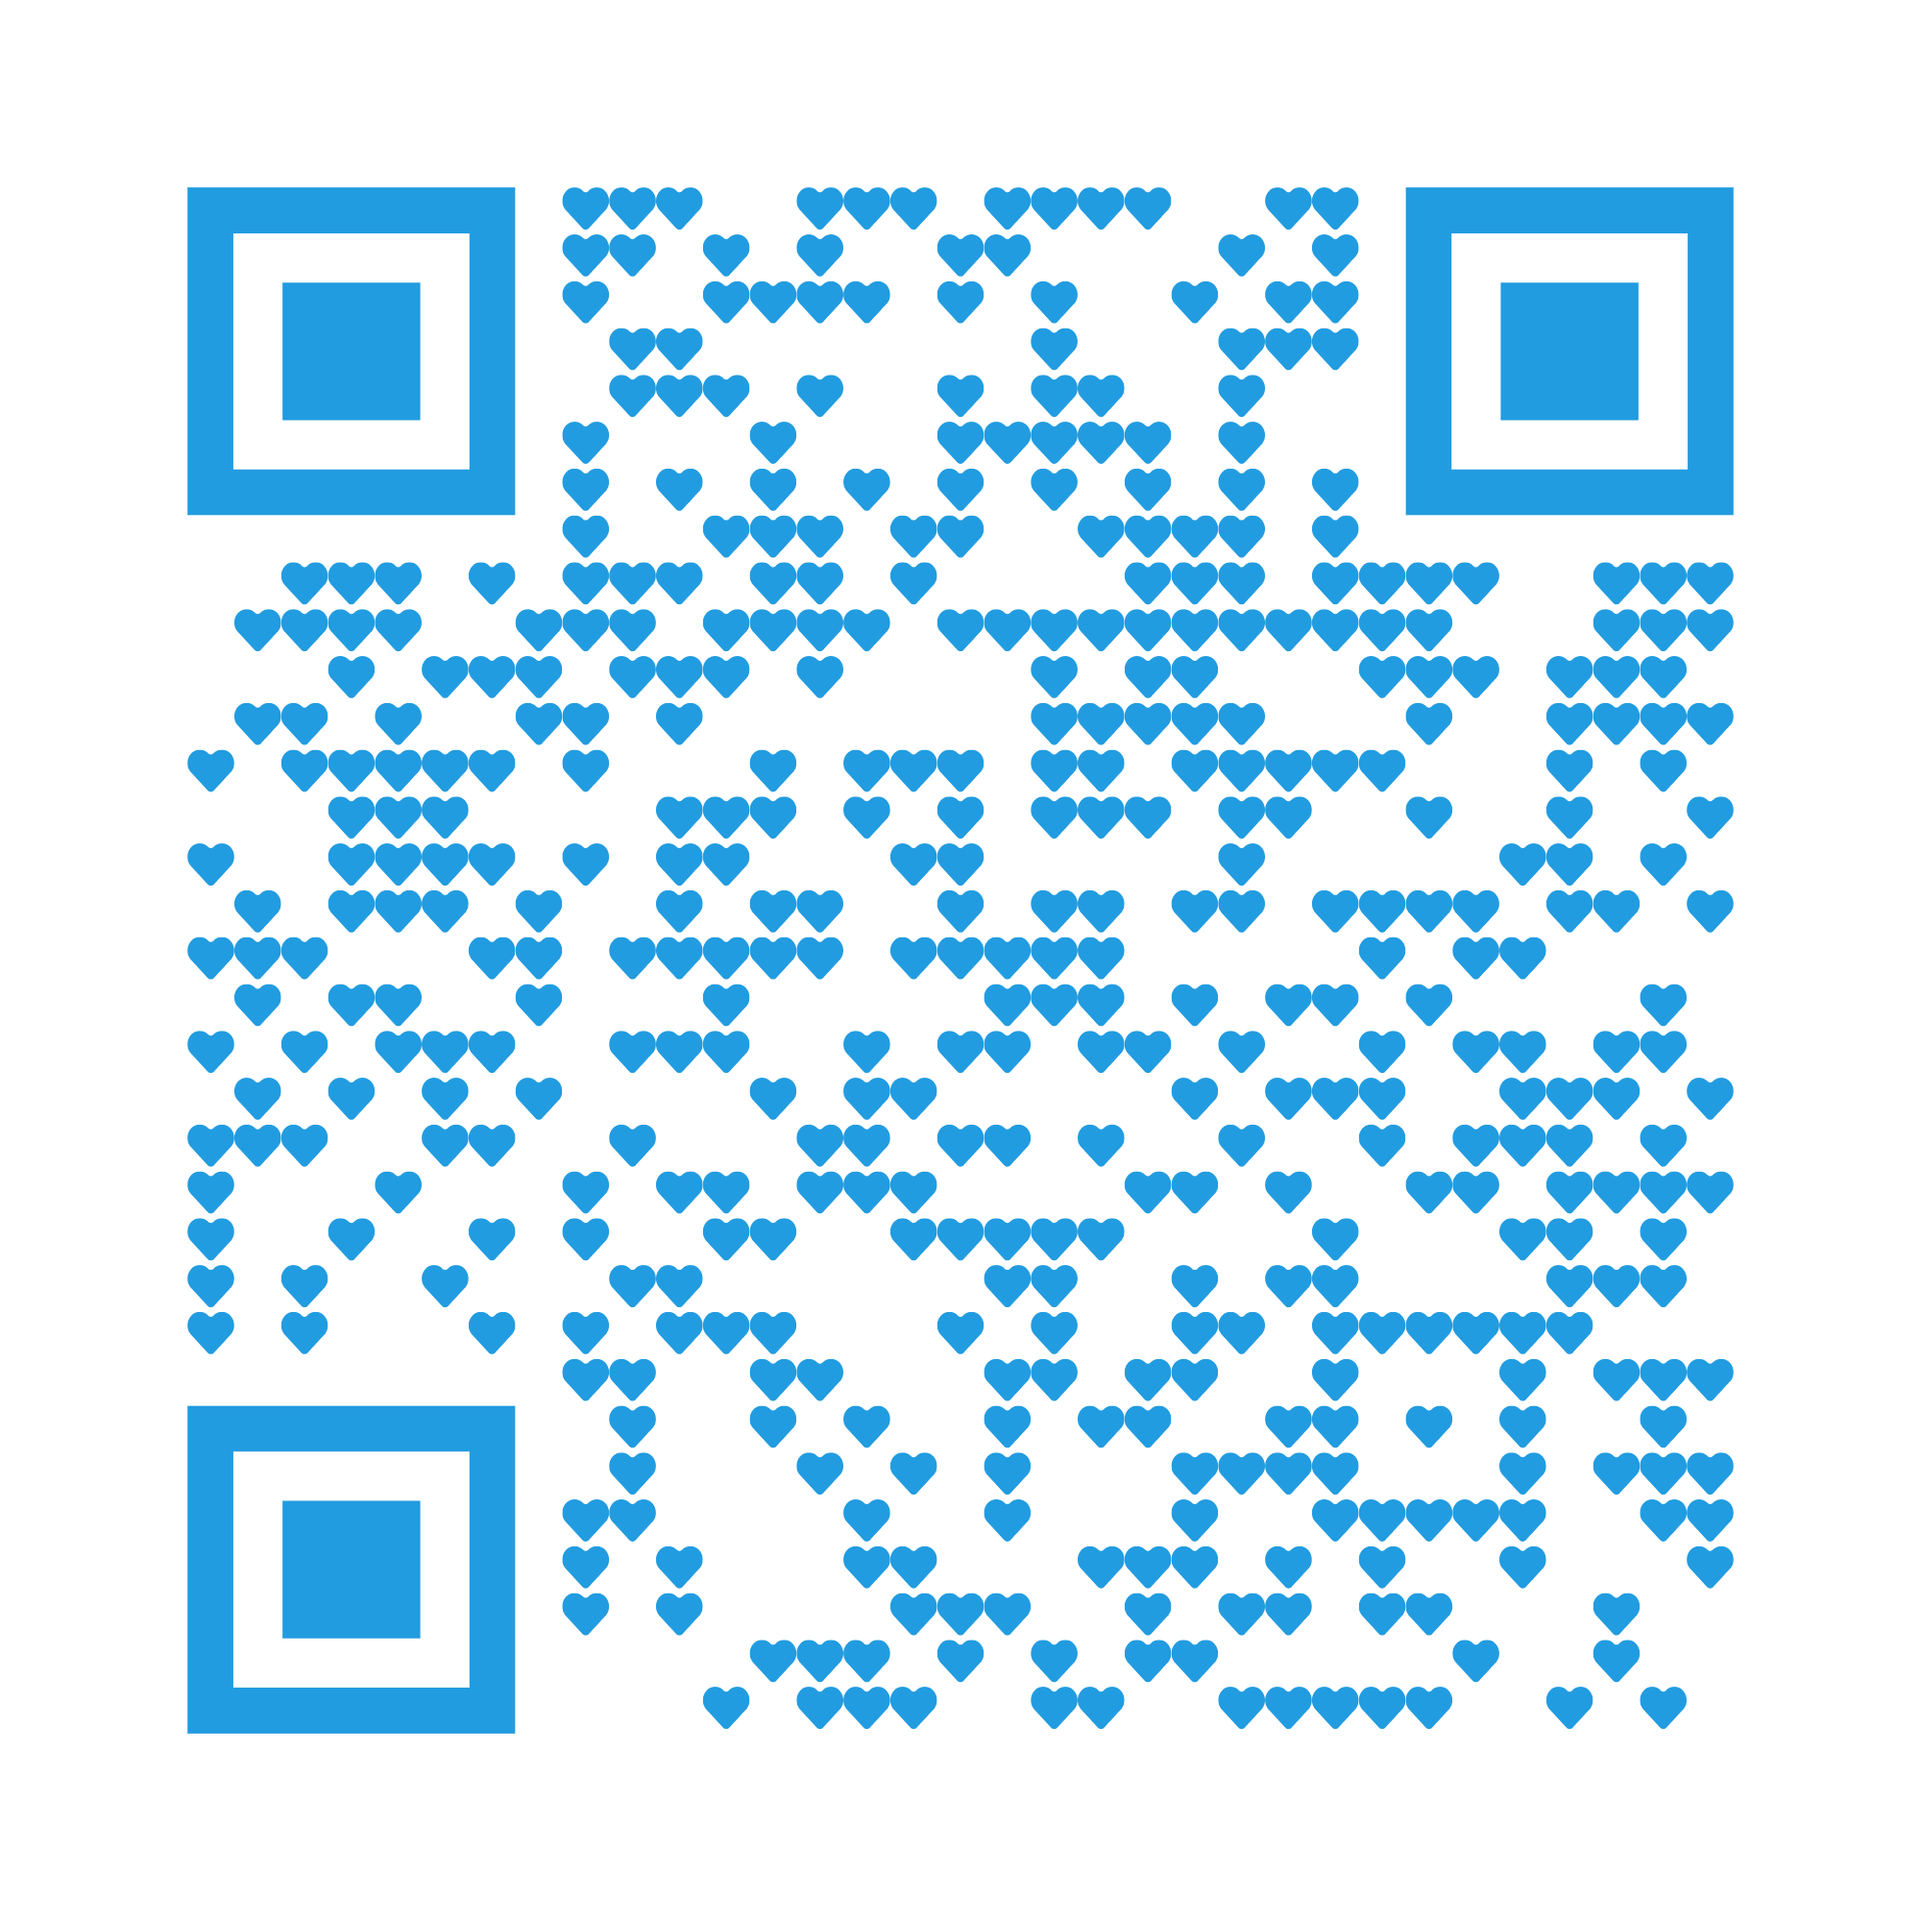
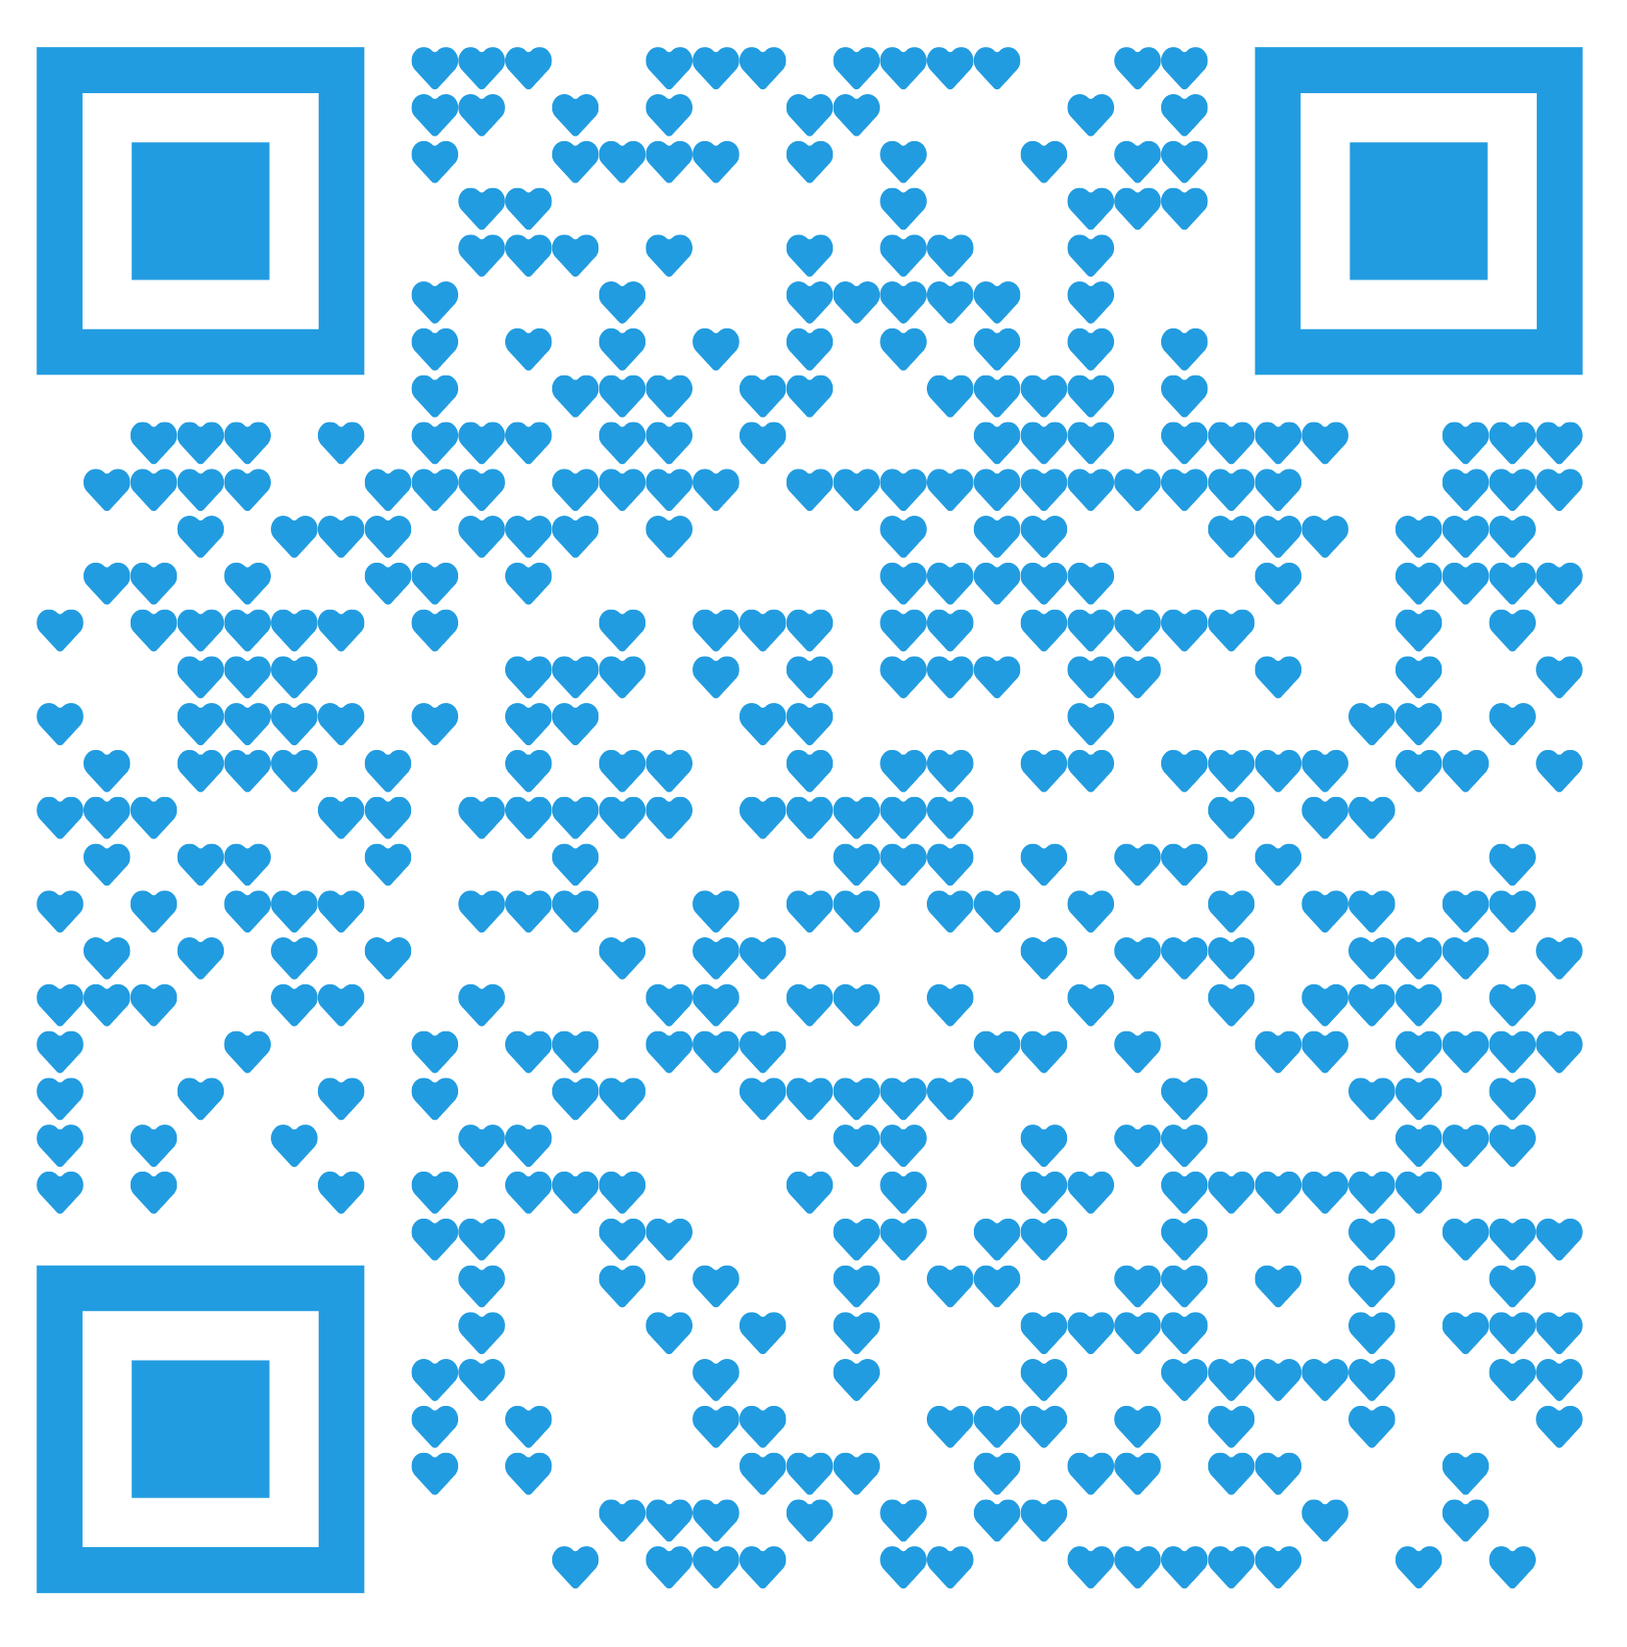
y

diff --git a/index.html b/index.html
@@ -520,7 +520,7 @@ Beyond technical instruction, a computer science teacher fosters critical thinki
             <div class="ftco-footer-widget mb-5">
             	<h2 class="ftco-heading-2">Join Whatsapp</h2>
             	<div class="block-23 mb-3">
-				<img src="download/1111.jpg" alt="Girl in a jacket" width="120" height="120">
+				<img src="download/qrcode.png" alt="Girl in a jacket" width="120" height="120">
 	            </div>
             </div>
           </div>
